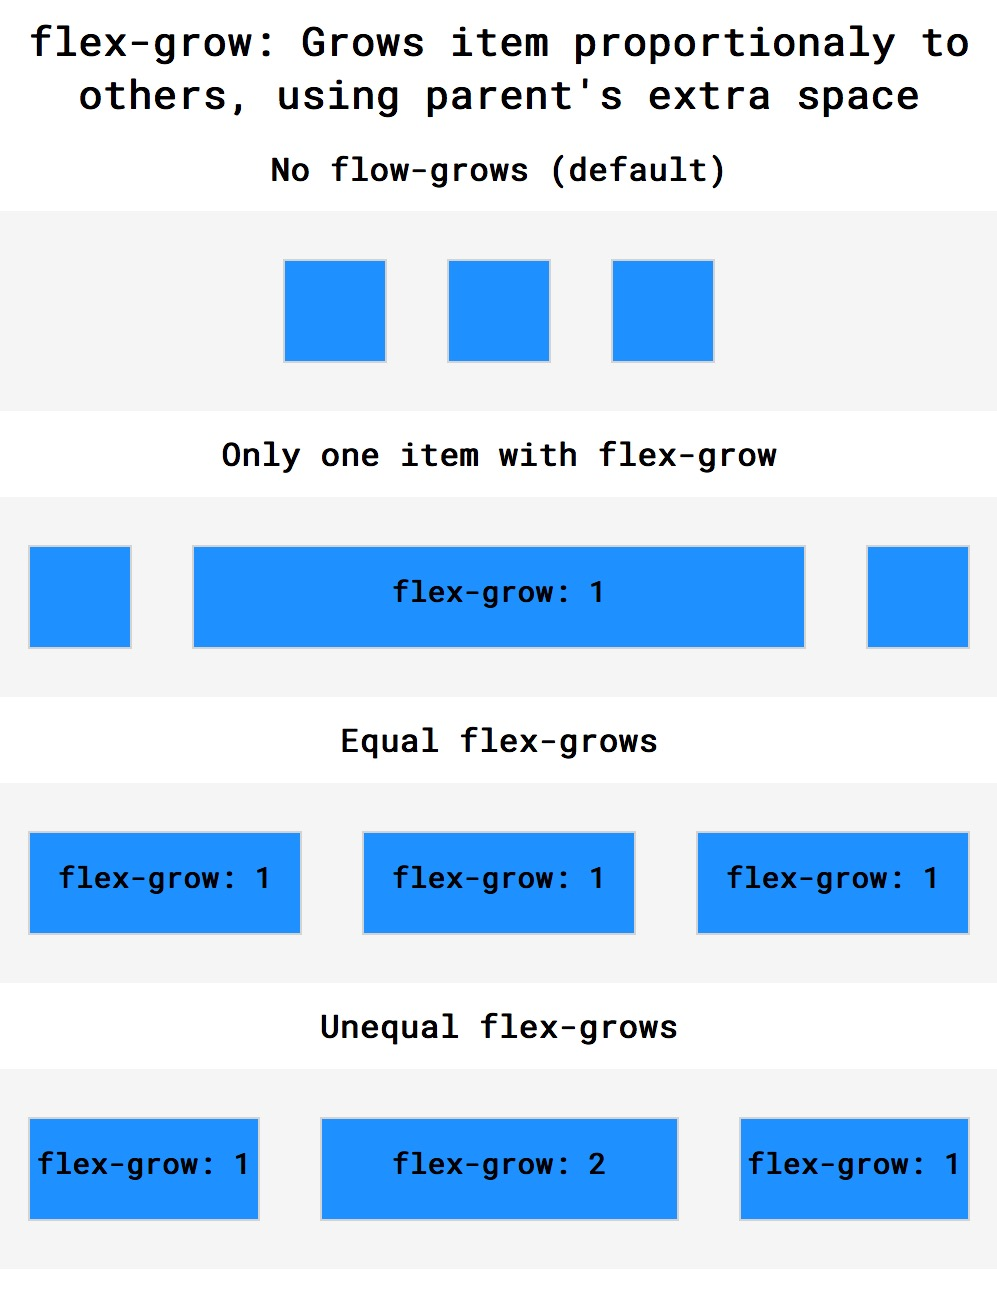
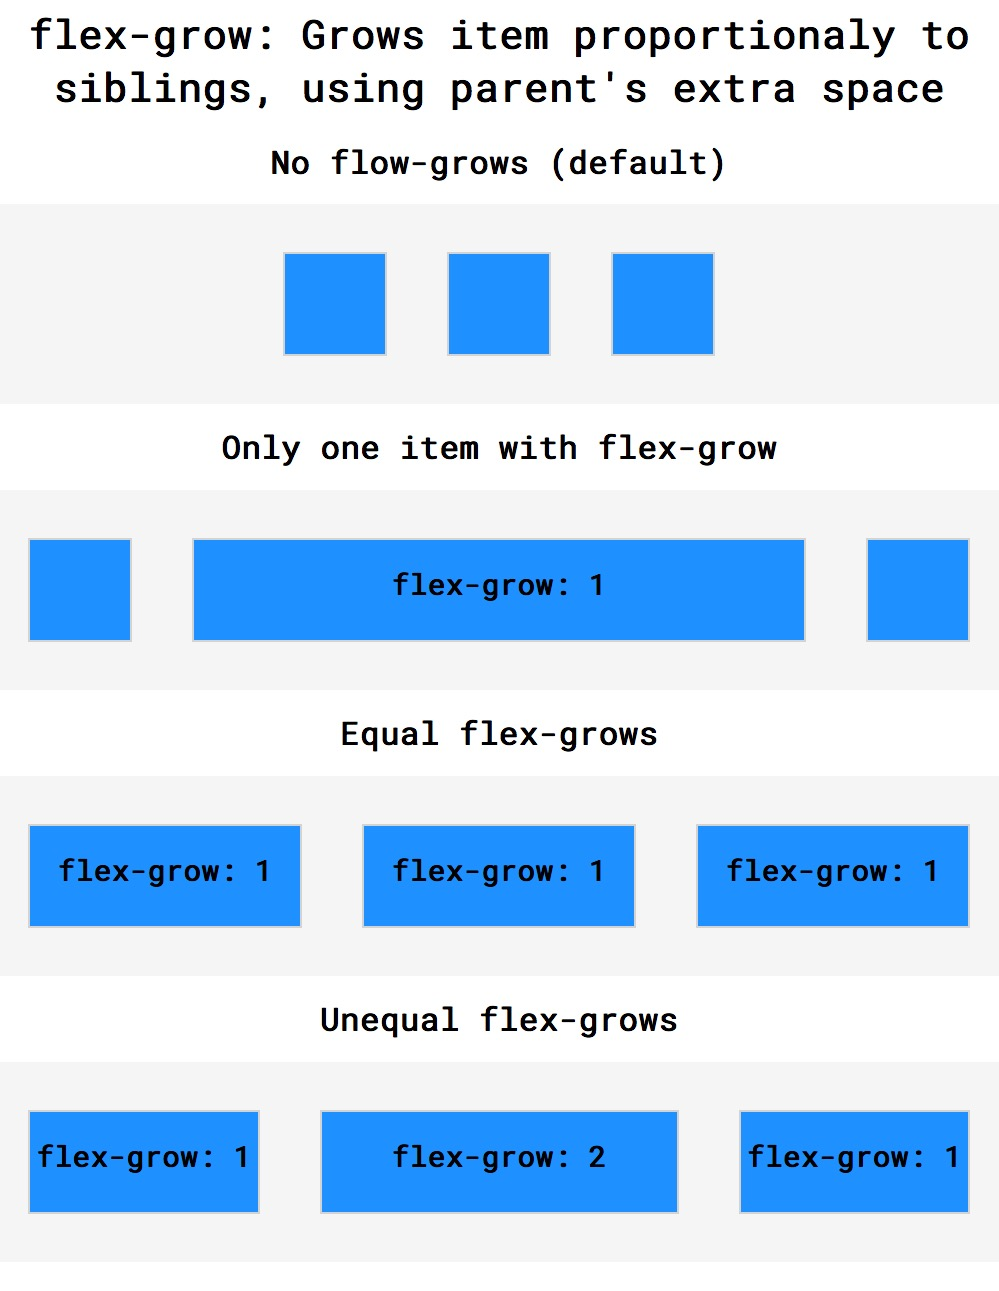
Updated flex-box formatting

diff --git a/docs/css_notes/css_grum_notes.md b/docs/css_notes/css_grum_notes.md
@@ -226,9 +226,9 @@ The box-sizing property controls the box model used by the browser;
 
 | Property                             | Purpose |
 | :----------------------------------: | ------ |
-| [`justify-content`](#justify-content)| Distributes space between and around content items along the main-axis of their container.
-| [`align-items`](#align-items)        |
-| [`flex-grow`](#flex-grow)            |
+| [`justify-content`](#justify-content)| Distributes space between and around _content_ items along the main-axis of their container.
+| [`align-items`](#align-items)        | Align _contents_ along flex-box `cross-axis` or grid-layout `block-axis`.
+| [`flex-grow`](#flex-grow)            | Grow _item_ proportionaly to siblings, using parent's extra space.
 | [`flex-shrink`](#flex-shrink)        |
 | [`flex-basis`](#flex-basis)          |
 | [`flex`](#flex)                      |
@@ -240,6 +240,8 @@ The box-sizing property controls the box model used by the browser;
 #### Flex-box [`main-axis`](https://developer.mozilla.org/en-US/docs/Glossary/main_axis) and [`cross-axis`](https://developer.mozilla.org/en-US/docs/Glossary/cross_axis)
 - The behaviour of many flex-box properties are dependent on the `main-axis` and `cross-axis`, which are set by the `flex-direction` property.  The `cross-axis` is alwaysperpendicular to the `main-axis`.
 - See heading links for diagrams.
+
+---
 
 ### [`justify-content`](https://developer.mozilla.org/en-US/docs/Web/CSS/justify-content) - justify _contents_ along the `main-axis` of container
 - Distribute space between and around content items along the `main-axis` of their container.
@@ -264,6 +266,8 @@ The box-sizing property controls the box model used by the browser;
   
 [<img src="./flex-box/justify-content/example.jpg" alt="drawing" width="350"/>](./flex-box/justify-content/index.html)
 
+---
+
 ### [`align-items`](https://developer.mozilla.org/en-US/docs/Web/CSS/align-items) - align _contents_ along flex-box `cross-axis` or grid-layout `block-axis`
 - Sets the align-self value on all direct children as a group
 - Sets the alignment of an item within its containing block.
@@ -287,6 +291,8 @@ The box-sizing property controls the box model used by the browser;
   
 [<img src="./flex-box/align-items/example.jpg" alt="drawing" width="350"/>](./flex-box/align-items/index.html)
 
+---
+
 ### [`flex-grow`](https://developer.mozilla.org/en-US/docs/Web/CSS/flex-grow) - grow _item_ proportionaly to siblings, using parent's extra space
 
 | Setting | Effect on `cross-axis` |
@@ -298,13 +304,85 @@ The box-sizing property controls the box model used by the browser;
   
 [<img src="./flex-box/flex-grow/example.jpg" alt="drawing" width="350"/>](./flex-box/flex-grow/index.html)
 
+---
+
 ### [`flex-shrink`](https://developer.mozilla.org/en-US/docs/Web/CSS/flex-shrink)
+
+| Setting | Effect on `???-axis` |
+| :-----: | ------ |
+
+- Example, with [code](./flex-box/prop/index.html) from course;
+  
+[<img src="./flex-box/prop/example.jpg" alt="prop drawing" width="350"/>](./flex-box/prop/index.html)
+
+---
+
 ### [`flex-basis`](https://developer.mozilla.org/en-US/docs/Web/CSS/flex-basis)
+
+| Setting | Effect on `???-axis` |
+| :-----: | ------ |
+
+- Example, with [code](./flex-box/prop/index.html) from course;
+  
+[<img src="./flex-box/prop/example.jpg" alt="prop drawing" width="350"/>](./flex-box/prop/index.html)
+
+---
+
 ### [`flex`](https://developer.mozilla.org/en-US/docs/Web/CSS/flex)
+
+| Setting | Effect on `???-axis` |
+| :-----: | ------ |
+
+- Example, with [code](./flex-box/prop/index.html) from course;
+  
+[<img src="./flex-box/prop/example.jpg" alt="prop drawing" width="350"/>](./flex-box/prop/index.html)
+
+---
+
 ### [`flex-wrap`](https://developer.mozilla.org/en-US/docs/Web/CSS/flex-wrap)
+
+| Setting | Effect on `???-axis` |
+| :-----: | ------ |
+
+- Example, with [code](./flex-box/prop/index.html) from course;
+  
+[<img src="./flex-box/prop/example.jpg" alt="prop drawing" width="350"/>](./flex-box/prop/index.html)
+
+---
+
 ### [`align-content`](https://developer.mozilla.org/en-US/docs/Web/CSS/align-content)
+
+| Setting | Effect on `???-axis` |
+| :-----: | ------ |
+
+- Example, with [code](./flex-box/prop/index.html) from course;
+  
+[<img src="./flex-box/prop/example.jpg" alt="prop drawing" width="350"/>](./flex-box/prop/index.html)
+
+---
+
 ### [`flex-direction`](https://developer.mozilla.org/en-US/docs/Web/CSS/flex-direction)
+
+| Setting | Effect on `???-axis` |
+| :-----: | ------ |
+
+- Example, with [code](./flex-box/prop/index.html) from course;
+  
+[<img src="./flex-box/prop/example.jpg" alt="prop drawing" width="350"/>](./flex-box/prop/index.html)
+
+---
+
 ### [`flex-flow`](https://developer.mozilla.org/en-US/docs/Web/CSS/flex-flow)
+
+| Setting | Effect on `???-axis` |
+| :-----: | ------ |
+
+- Example, with [code](./flex-box/prop/index.html) from course;
+  
+[<img src="./flex-box/prop/example.jpg" alt="prop drawing" width="350"/>](./flex-box/prop/index.html)
+
+---
+
 
 
 
